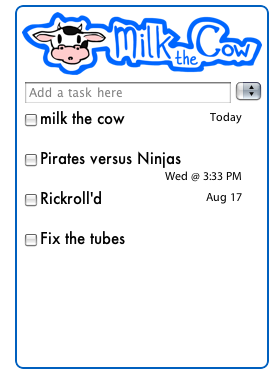
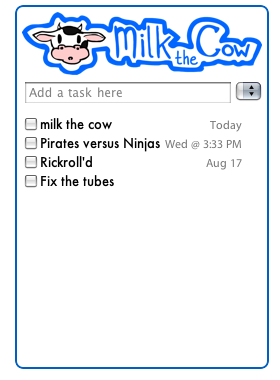
issue 21, better formatting for task display, version 0.4.1

Changed region(s): [[0.0857, 0.2895, 0.8571, 0.55], [0.0857, 0.6079, 0.4571, 0.6658]]

diff --git a/Milk the Cow.wdgt/milkthecow.css b/Milk the Cow.wdgt/milkthecow.css
@@ -120,7 +120,7 @@ cursor:pointer;
 margin-top:0;
 padding-top:0;
 position:absolute;
-top:110px;
+top:105px;
 bottom:35px;
 text-align:left;
 left:22px;
@@ -129,7 +129,7 @@ display:block;
 
 #listScrollbar {
 position:absolute;
-top:110px;
+top:105px;
 bottom:35px;
 left:243px;
 width:19px;
@@ -155,31 +155,39 @@ padding:0;
 #taskList li {
 font-family:"Futura";
 font-style:normal;
-font-weight:400;
-font-size:15px;
+font-size:13px;
 line-height:16px;
 width:220px;
 margin:0 0 5px;
 padding:0;
-min-height:35px
+clear:both;
 }
 
-#taskList li:hover {
-background-color:#FFC;
+#taskList li input {
+float:left;
 }
 
-.duedate {
-font-family:"Myriad Pro";
+#taskList li .taskname {
+float:left;
+width:202px;
+}
+
+#taskList li .taskname:hover {
+background-color:#ffc;
+}
+
+#taskList li .duedate {
+color:#777777;
+font-family:"Myriad Pro","Futura";
 float:right;
-clear:right;
 font-size:12px;
-font-weight:400;
 margin-left:5px;
+padding-top:3px;
 }
 
 #taskDetails {
 position:absolute;
-background-color:#FFF;
+background-color:#fff;
 left:269px;
 top:100px;
 width:0;
@@ -201,10 +209,10 @@ word-wrap:break-word;
 .CloseX,.CloseX:link,.CloseX:active,.CloseX:visited {
 text-decoration:none;
 font-weight:700;
-font-size:1.1em;
+font-size:15px;
 position:absolute;
 top:-1px;
-left:185px;
+right:5px;
 color:#969696;
 }
 

diff --git a/Milk the Cow.wdgt/milkthecow.html b/Milk the Cow.wdgt/milkthecow.html
@@ -34,10 +34,10 @@
 		</div>
 		<div id="listDiv">
 			<ul id="taskList">
-				<li><input type="checkbox" />milk the cow<span class="duedate">Today</span></li>
-				<li><input type="checkbox" />Pirates versus Ninjas<span class="duedate">Wed @ 3:33 PM</span></li>
-				<li><input type="checkbox" />Rickroll'd<span class="duedate">Aug 17</span></li>
-				<li><input type="checkbox" />Fix the tubes<span class="duedate"></span></li>
+				<li><input type="checkbox" /><span class="taskname">milk the cow<span class="duedate">Today</span></span></li>
+				<li><input type="checkbox" /><span class="taskname">Pirates versus Ninjas<span class="duedate">Wed @ 3:33 PM</span></span></li>
+				<li><input type="checkbox" /><span class="taskname">Rickroll'd<span class="duedate">Aug 17</span></span></li>
+				<li><input type="checkbox" /><span class="taskname">Fix the tubes<span class="duedate"> </span></span></li>
 			</ul>
 		</div>
 		<div id="listScrollbar"></div>

diff --git a/Milk the Cow.wdgt/milkthecow.js b/Milk the Cow.wdgt/milkthecow.js
@@ -654,7 +654,7 @@ function displayTasks() {
 				name = "<u><b>"+name+"</b></u>"; //overdue
 			if (tasks[t].date.getTime()==2147483647000)
 				sdate = ""; //no due date
-			$("#taskList").append("<li><input type=\"checkbox\" onclick=\"rtmComplete("+t+")\"/><span class=\"taskname\" onclick=\"showDetails("+t+")\">"+name+"</span><span class=\"duedate\">"+sdate+"</span></li>");
+			$("#taskList").append("<li><input type=\"checkbox\" onclick=\"rtmComplete("+t+")\"/><span class=\"taskname\" onclick=\"showDetails("+t+")\">"+name+"<span class=\"duedate\">"+sdate+"</span></span></li>");
 		}
 
 		if (undoStack.length > 0) $("#undo").show();
